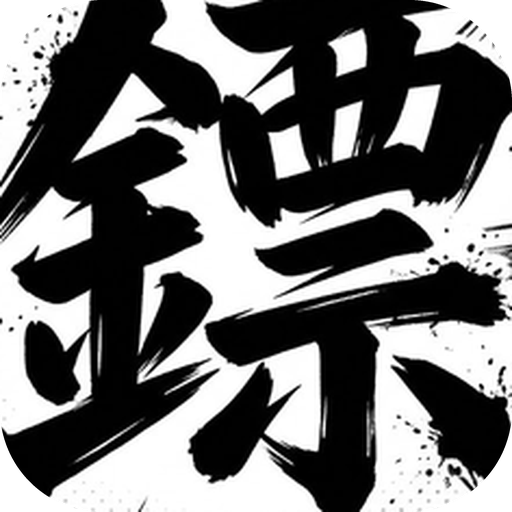
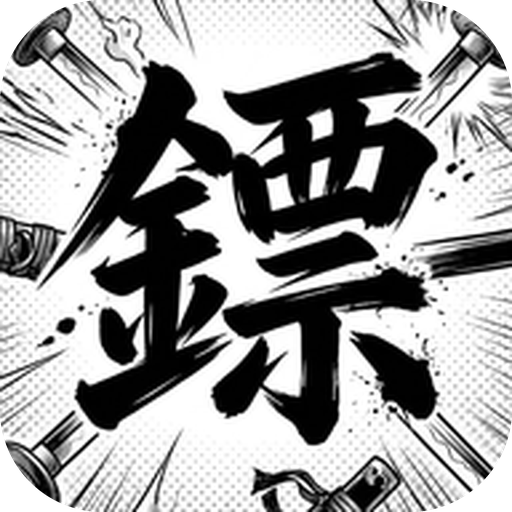
1

diff --git a/index.html b/index.html
@@ -8,9 +8,9 @@
 <meta property="og:title" content="ASC鏢局">
 <meta property="og:description" content="一個錢包，行走兩個江湖：喵武士 NFT 與 ASC 點數金庫。">
 <meta name="theme-color" content="#070d1f">
-<link rel="icon" type="image/png" sizes="32x32" href="./assets/favicon-32.png?v=20261102d">
-<link rel="icon" type="image/png" sizes="64x64" href="./assets/favicon.png?v=20261102d">
-<link rel="apple-touch-icon" href="./assets/apple-touch-icon.png?v=20261102d">
+<link rel="icon" type="image/png" sizes="32x32" href="./assets/favicon-32.png?v=20261102f">
+<link rel="icon" type="image/png" sizes="64x64" href="./assets/favicon.png?v=20261102f">
+<link rel="apple-touch-icon" href="./assets/apple-touch-icon.png?v=20261102f">
 <link rel="preconnect" href="https://fonts.googleapis.com">
 <link rel="preconnect" href="https://fonts.gstatic.com" crossorigin>
 <link href="https://fonts.googleapis.com/css2?family=Noto+Serif+TC:wght@600;900&family=Noto+Sans+TC:wght@400;500;700&display=swap" rel="stylesheet">

diff --git a/privacy/index.html b/privacy/index.html
@@ -6,9 +6,9 @@
 <title>隱私權政策｜ASC 鏢局</title>
 <meta name="description" content="江湖鏢局 Discord 機器人與 ASC 鏢局網站的隱私權政策">
 <meta name="theme-color" content="#070d1f">
-<link rel="icon" type="image/png" sizes="32x32" href="../assets/favicon-32.png?v=20261102d">
-<link rel="icon" type="image/png" sizes="64x64" href="../assets/favicon.png?v=20261102d">
-<link rel="apple-touch-icon" href="../assets/apple-touch-icon.png?v=20261102d">
+<link rel="icon" type="image/png" sizes="32x32" href="../assets/favicon-32.png?v=20261102f">
+<link rel="icon" type="image/png" sizes="64x64" href="../assets/favicon.png?v=20261102f">
+<link rel="apple-touch-icon" href="../assets/apple-touch-icon.png?v=20261102f">
 <link rel="preconnect" href="https://fonts.googleapis.com">
 <link rel="preconnect" href="https://fonts.gstatic.com" crossorigin>
 <link href="https://fonts.googleapis.com/css2?family=Noto+Serif+TC:wght@600;900&family=Noto+Sans+TC:wght@400;500;700&display=swap" rel="stylesheet">

diff --git a/terms/index.html b/terms/index.html
@@ -6,9 +6,9 @@
 <title>服務條款｜ASC 鏢局</title>
 <meta name="description" content="江湖鏢局 Discord 機器人與 ASC 鏢局網站的服務條款">
 <meta name="theme-color" content="#070d1f">
-<link rel="icon" type="image/png" sizes="32x32" href="../assets/favicon-32.png?v=20261102d">
-<link rel="icon" type="image/png" sizes="64x64" href="../assets/favicon.png?v=20261102d">
-<link rel="apple-touch-icon" href="../assets/apple-touch-icon.png?v=20261102d">
+<link rel="icon" type="image/png" sizes="32x32" href="../assets/favicon-32.png?v=20261102f">
+<link rel="icon" type="image/png" sizes="64x64" href="../assets/favicon.png?v=20261102f">
+<link rel="apple-touch-icon" href="../assets/apple-touch-icon.png?v=20261102f">
 <link rel="preconnect" href="https://fonts.googleapis.com">
 <link rel="preconnect" href="https://fonts.gstatic.com" crossorigin>
 <link href="https://fonts.googleapis.com/css2?family=Noto+Serif+TC:wght@600;900&family=Noto+Sans+TC:wght@400;500;700&display=swap" rel="stylesheet">

diff --git a/bind/index.html b/bind/index.html
@@ -9,9 +9,9 @@
 <meta property="og:title" content="江湖鏢局金庫">
 <meta property="og:description" content="科技江湖・鏈上鏢局：持有越久，換得越多。">
 <meta property="og:image" content="../assets/og.jpg">
-<link rel="icon" type="image/png" sizes="32x32" href="../assets/favicon-32.png?v=20261102d">
-<link rel="icon" type="image/png" sizes="64x64" href="../assets/favicon.png?v=20261102d">
-<link rel="apple-touch-icon" href="../assets/apple-touch-icon.png?v=20261102d">
+<link rel="icon" type="image/png" sizes="32x32" href="../assets/favicon-32.png?v=20261102f">
+<link rel="icon" type="image/png" sizes="64x64" href="../assets/favicon.png?v=20261102f">
+<link rel="apple-touch-icon" href="../assets/apple-touch-icon.png?v=20261102f">
 <link rel="preconnect" href="https://fonts.googleapis.com">
 <link rel="preconnect" href="https://fonts.gstatic.com" crossorigin>
 <link href="https://fonts.googleapis.com/css2?family=Noto+Serif+TC:wght@600;900&display=swap" rel="stylesheet">

diff --git a/AGENTS.md b/AGENTS.md
@@ -44,4 +44,4 @@
 - 頂部導覽列縮小：logo、連結錢包、狀態 chip、語言切換、三分頁、子分頁的高度與字級都變小；按鈕底色改半透明。
 - 網站 logo 換成「鏢」字刀劍漫畫圖：`assets/logo.png`（192×192，裁中間）取代左上角的「ASC」文字方塊（首頁、綁定頁、shared/core.js）；`favicon.png`、`apple-touch-icon.png`、`icon-512.png` 也換成同一張；移除 `favicon.svg`（舊的 ASC 文字圖示，移到 `_to_delete/`）。
 - 導覽列（`app/style.css` 最後一段）：上排 品牌｜三分頁 `#sw3`（在 `.toprow .mid`）｜錢包（`.status` 狀態 chip 移進 `.wallet`，小字排在按鈕下方）｜語言切換（最右上）；子選單改成貼齊的底線分頁（NFT 紅線、Token 藍線），首頁沒有子選單時整列隱藏。手機只在金庫未驗證／已標記時顯示 chip。桌機約 116px（原 195）。`index.html`、`privacy`、`terms` 的 `app/*.css|js` 加 `?v=20261102` 避免瀏覽器快取舊檔，之後改 CSS/JS 記得換版本號。
-- 網站圖示改成跟左上角 logo 一樣：從原圖裁更緊（「鏢」字填滿）、20% 圓角、無框（16px 分頁才看得清楚）、四角透明，`favicon-32.png`、`favicon.png`（64）、`icon-512.png`；`apple-touch-icon.png` 同樣裁切但維持方形（iOS 自己裁圓角）。圖示連結加 `?v=20261102d`。首頁 `<title>`／`og:title` 改為「ASC鏢局」。
+- 網站圖示改成跟左上角 logo 一樣：直接用 `logo.png` 那張圖、20% 圓角、無框、四角透明，`favicon-32.png`、`favicon.png`（64）、`icon-512.png`（都是 logo.png 整張縮放，不裁切）；`apple-touch-icon.png` 同一張但維持方形（iOS 自己裁圓角）。圖示連結加 `?v=20261102f`。首頁 `<title>`／`og:title` 改為「ASC鏢局」。
